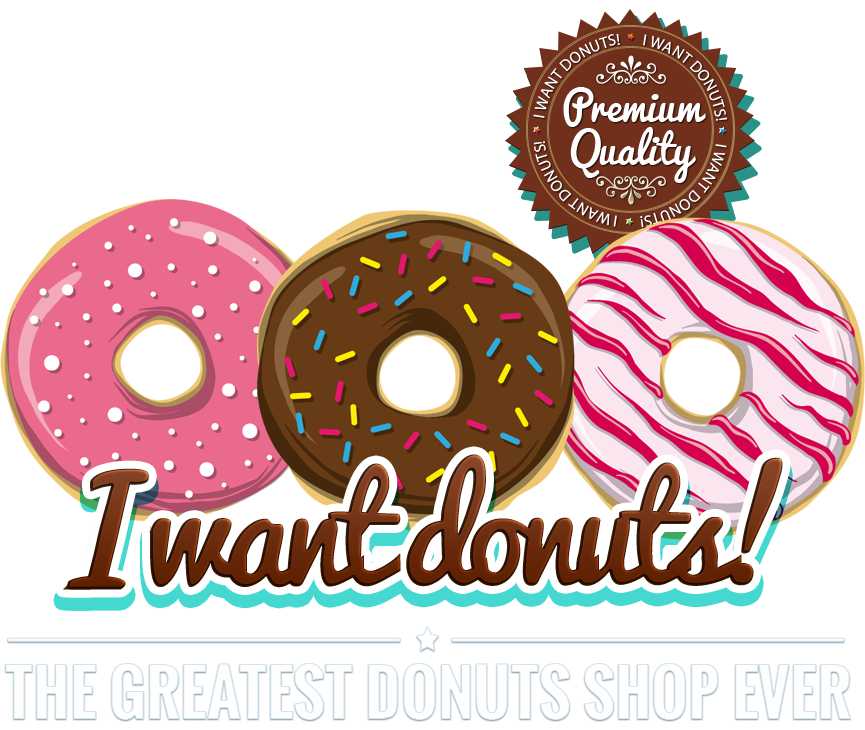
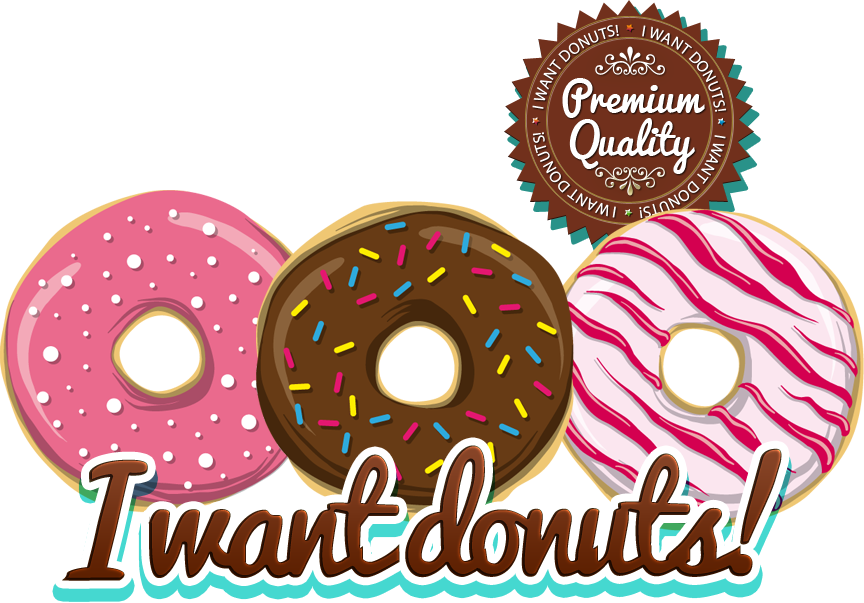
Improve product header section.

diff --git a/app/views/index.scala.html b/app/views/index.scala.html
@@ -8,8 +8,9 @@
         <div class="space">
             <div class="inner">
                 <div class="body">
-                    <img id="image-header" alt="I want donuts! The greatest donuts shop ever"
-                         src="@routes.Assets.at("images/header.png")"/>
+                    <img id="image-header" alt="I want donuts!" src="@routes.Assets.at("images/header.png")"/>
+                    <img class="separator" src="@routes.Assets.at("images/separator-grey.png")" alt="-" />
+                    <h2>THE GREATEST DONUT SHOP EVER</h2>
                 </div>
             </div>
         </div>
@@ -54,29 +55,30 @@
                 </div>
                 <div class="body">
                     <div class="often-boxes clearfix">
-                        <div class="often-box">
-                            <label>
-                                <input type="radio" name="howOften" id="product-howOften-4" value="4" required
-                                    @if(getOften(cart) == 4){checked}>
-                                <div class="text"><span class="check"></span> Once a week</div>
-                            </label>
-                        </div>
-                        <div class="often-box">
-                            <label>
-                                <input type="radio" name="howOften" id="product-howOften-2" value="2" required
-                                    @if(getOften(cart) == 2){checked}>
-                                <div class="text"><span class="check"></span> Every two weeks</div>
-                            </label>
-                        </div>
-                        <div class="often-box">
-                            <label>
-                                <input type="radio" name="howOften" id="product-howOften-1" value="1" required
-                                    @if(getOften(cart) == 1){checked}>
-                                <div class="text"><span class="check"></span> Once a month</div>
-                            </label>
+                        <div class="often-boxes-inner">
+                            <div class="often-box">
+                                <label>
+                                    <input type="radio" name="howOften" id="product-howOften-4" value="4" required
+                                        @if(getOften(cart) == 4){checked}>
+                                    <div class="text"><span class="check"></span> Once a week</div>
+                                </label>
+                            </div>
+                            <div class="often-box">
+                                <label>
+                                    <input type="radio" name="howOften" id="product-howOften-2" value="2" required
+                                        @if(getOften(cart) == 2){checked}>
+                                    <div class="text"><span class="check"></span> Every two weeks</div>
+                                </label>
+                            </div>
+                            <div class="often-box">
+                                <label>
+                                    <input type="radio" name="howOften" id="product-howOften-1" value="1" required
+                                        @if(getOften(cart) == 1){checked}>
+                                    <div class="text"><span class="check"></span> Once a month</div>
+                                </label>
+                            </div>
                         </div>
                     </div>
-
 
                     <div id="go-to-cart" class="button-disabled">
                         <button type="submit" disabled><span>VIEW CART AND CONFIRM THIS PARADISE</span></button>

diff --git a/app/assets/stylesheets/demo/product.less b/app/assets/stylesheets/demo/product.less
@@ -3,22 +3,27 @@ body.product {
     padding: 0;
 
     section > .space > .inner {
-        padding-top: 5%; padding-bottom: 5%;
+        padding-top: 6%; padding-bottom: 6%;
         &> .head, &> .body {
             width: 1024px; margin: 0 auto;
         }
-        &> .head { padding-bottom: 2%; }
+        &> .head { padding-bottom: 3%; }
     }
 
     #product-header {
-        #image-header { cursor: pointer; }
         background: @green url("../images/background-green.jpg") repeat top left;
         .space {
             background: transparent url("../images/border-top.png") repeat-x bottom left;
             .inner {
                 padding-bottom: 7%;
                 background: transparent url("../images/border-green.jpg") repeat-x top left;
+                .body { padding-bottom: 22px; }
             }
+        }
+
+        .inner {
+            #image-header { margin-bottom: 2%; cursor: pointer; }
+            h2 { color: @white; text-shadow: 0px 2px @grey-dark; }
         }
     }
 
@@ -69,15 +74,14 @@ body.product {
             h2 { color: @white; }
             background: transparent url("../images/border-bottom.png") repeat-x top left;
             .inner {
-                padding-top: 7%;
                 background: transparent url("../images/border-top.png") repeat-x bottom left;
+                .head { padding-top: 22px; }
+                .body { padding-bottom: 22px; }
             }
         }
 
         .inner {
-            .often-boxes {
-                padding: 3% 0 10%;
-            }
+            .often-boxes { padding: 3% 0 10%; }
             .often-box {
                 display: inline-block; padding-right: 3.5%;
                 &:last-child { padding-right: 0; }

diff --git a/app/assets/stylesheets/main.less b/app/assets/stylesheets/main.less
@@ -13,7 +13,7 @@ label { font-size: 100%; }
 /* FONTS */
 
 h1 { font-family: 'Pacifico', cursive; font-size: 3.1em; font-weight: 300; padding-bottom: 2%; }
-h2 { font-size: 4em; padding-top: 2%; }
+h2 { font-size: 4em; padding-top: 1%; margin: 0; line-height: 100%; }
 h3 { font-size: 1.4em; letter-spacing: 1px; }
 h4 { font-size: 1.4em; text-transform:uppercase; }
 h1, h3 { border-bottom: 1px solid @black; text-align: left; }

diff --git a/app/assets/stylesheets/demo/colors.less b/app/assets/stylesheets/demo/colors.less
@@ -13,3 +13,4 @@
 @green:             #18b1a8;
 @green-dark:        #137B7C;
 @grey:              #555555;
+@grey-dark:         #158180;
